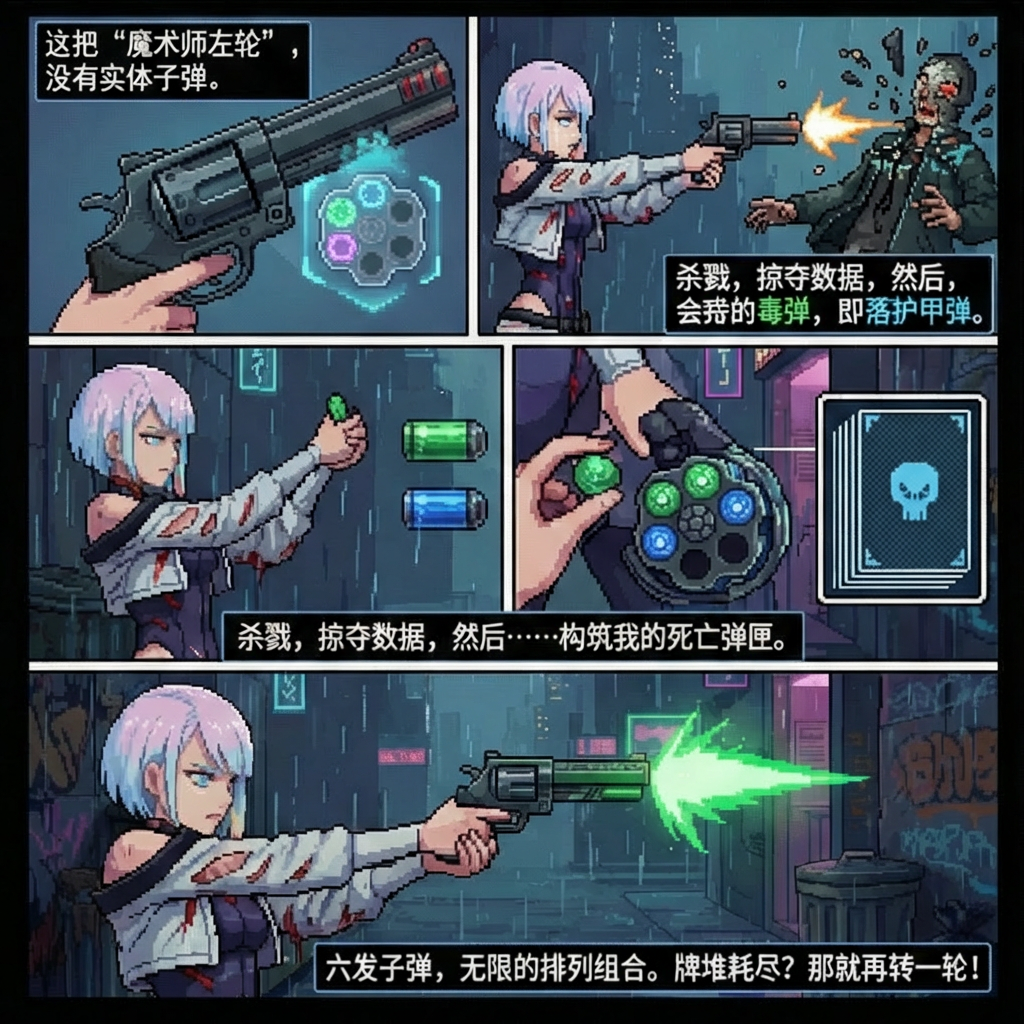
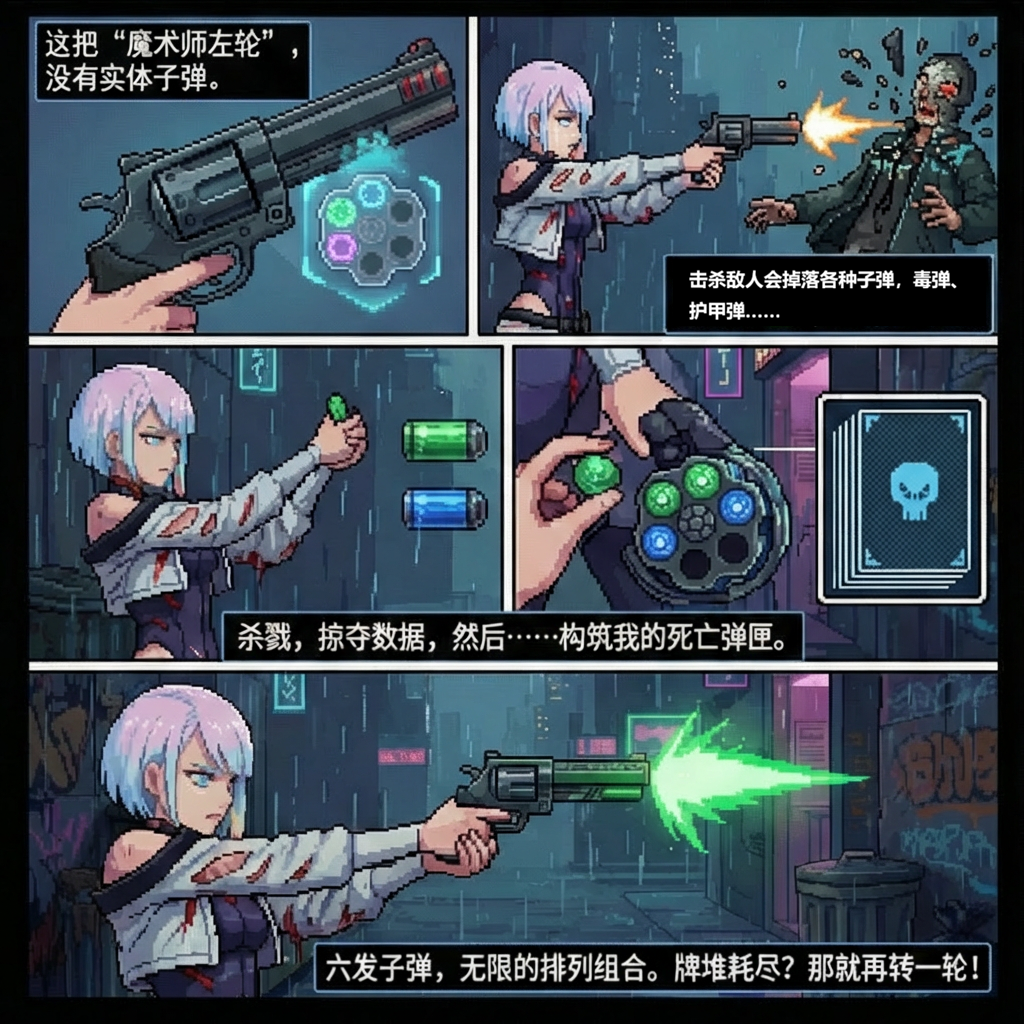
V1.0

Changed region(s): [[0.6562, 0.25, 0.9688, 0.3438]]

diff --git a/docs/index.html b/docs/index.html
@@ -4,7 +4,7 @@
     <meta charset="UTF-8" />
     <meta name="viewport" content="width=device-width, initial-scale=1.0" />
     <title>子弹时间：肉鸽弹巢</title>
-    <script defer src="./assets/index-DtUFgMiu.js"></script>
+    <script defer src="./assets/index-szk--FsM.js"></script>
   </head>
   <body>
     <div id="root"></div>